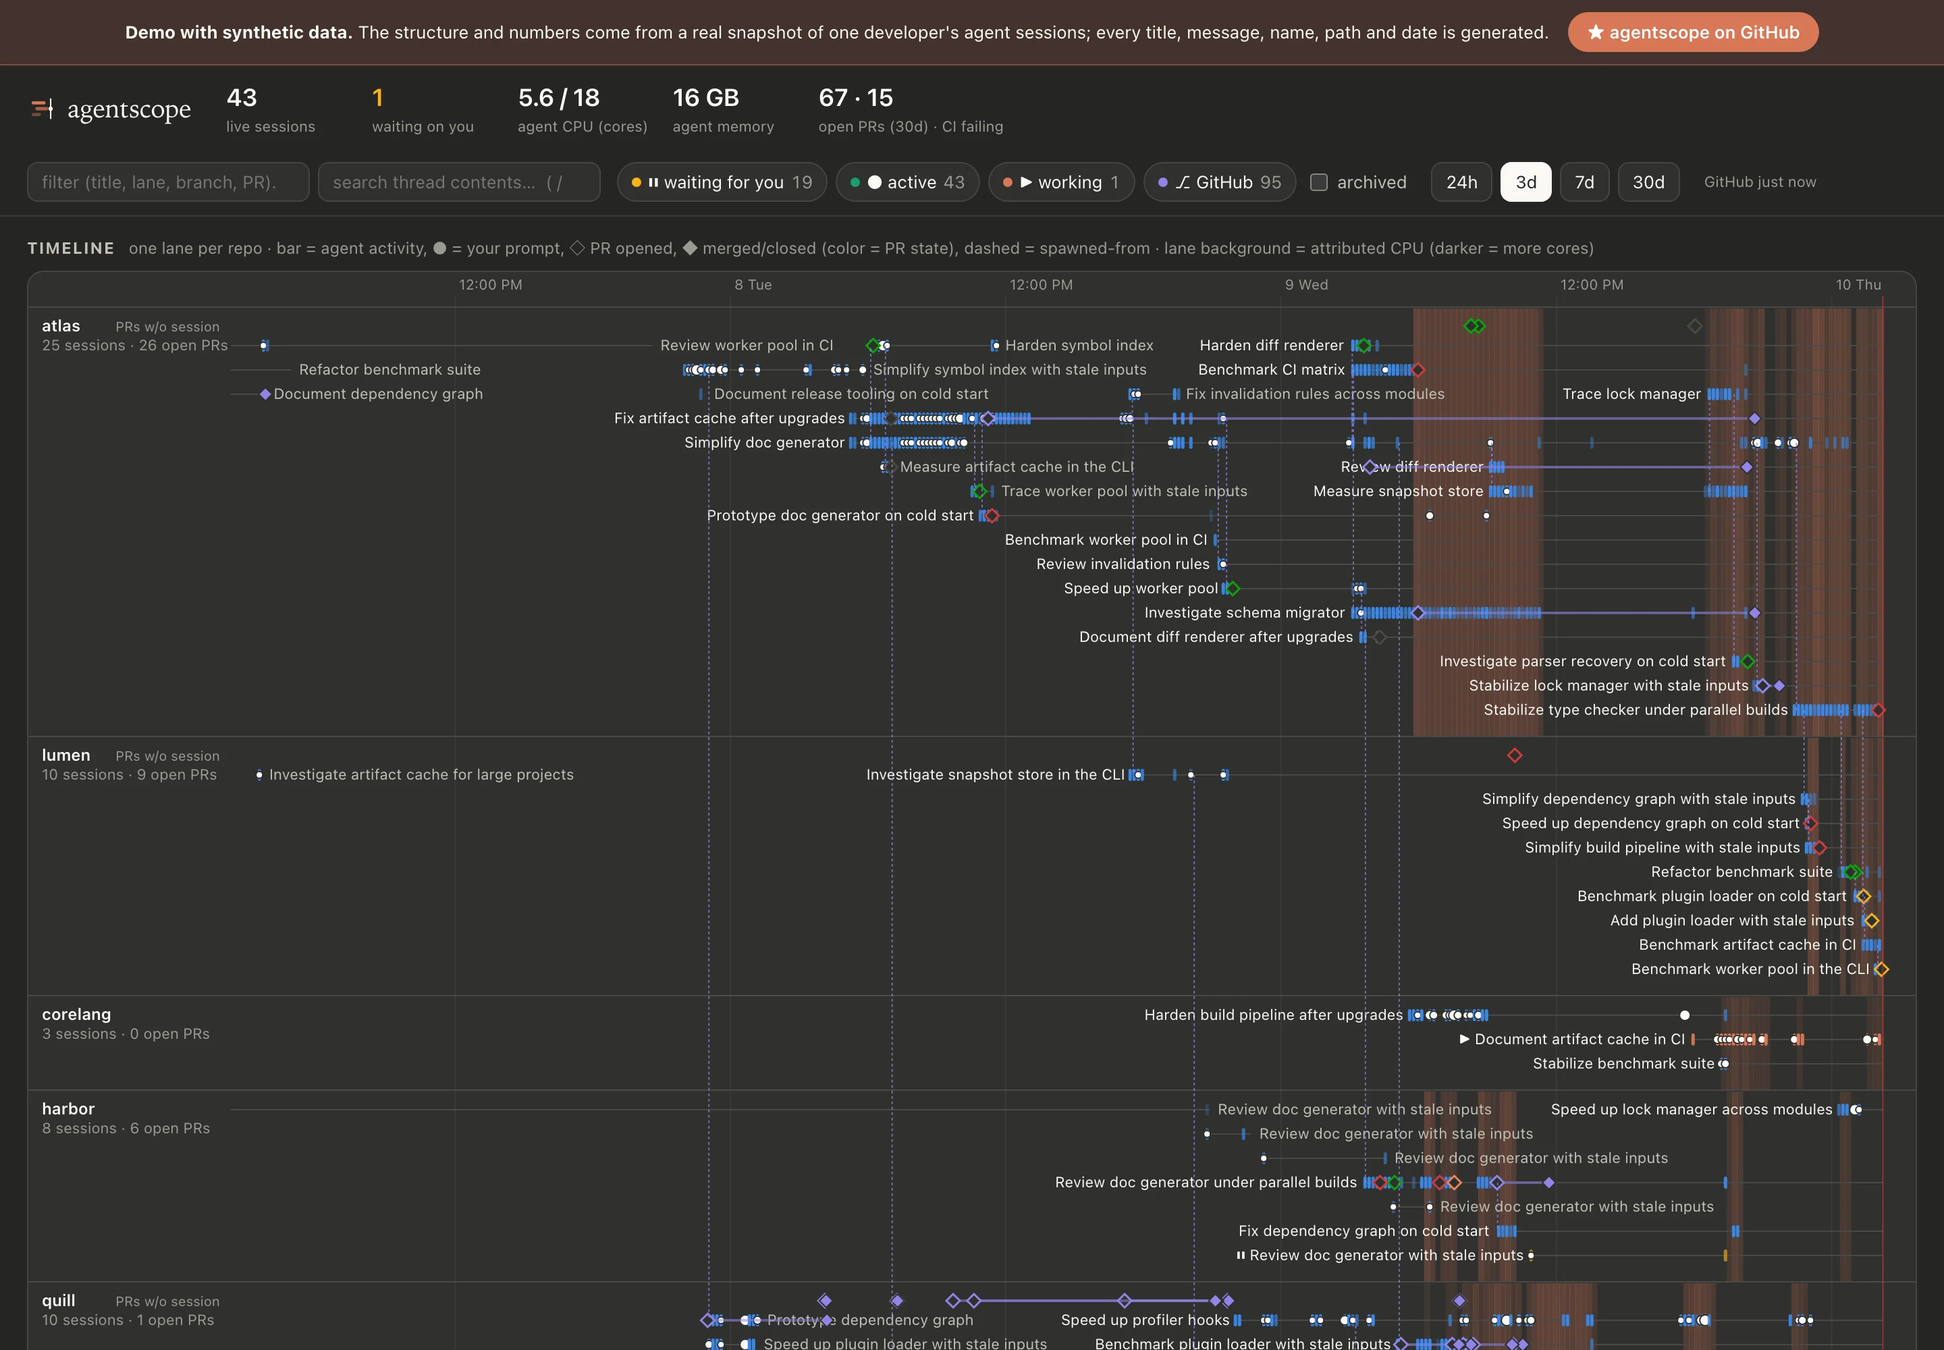
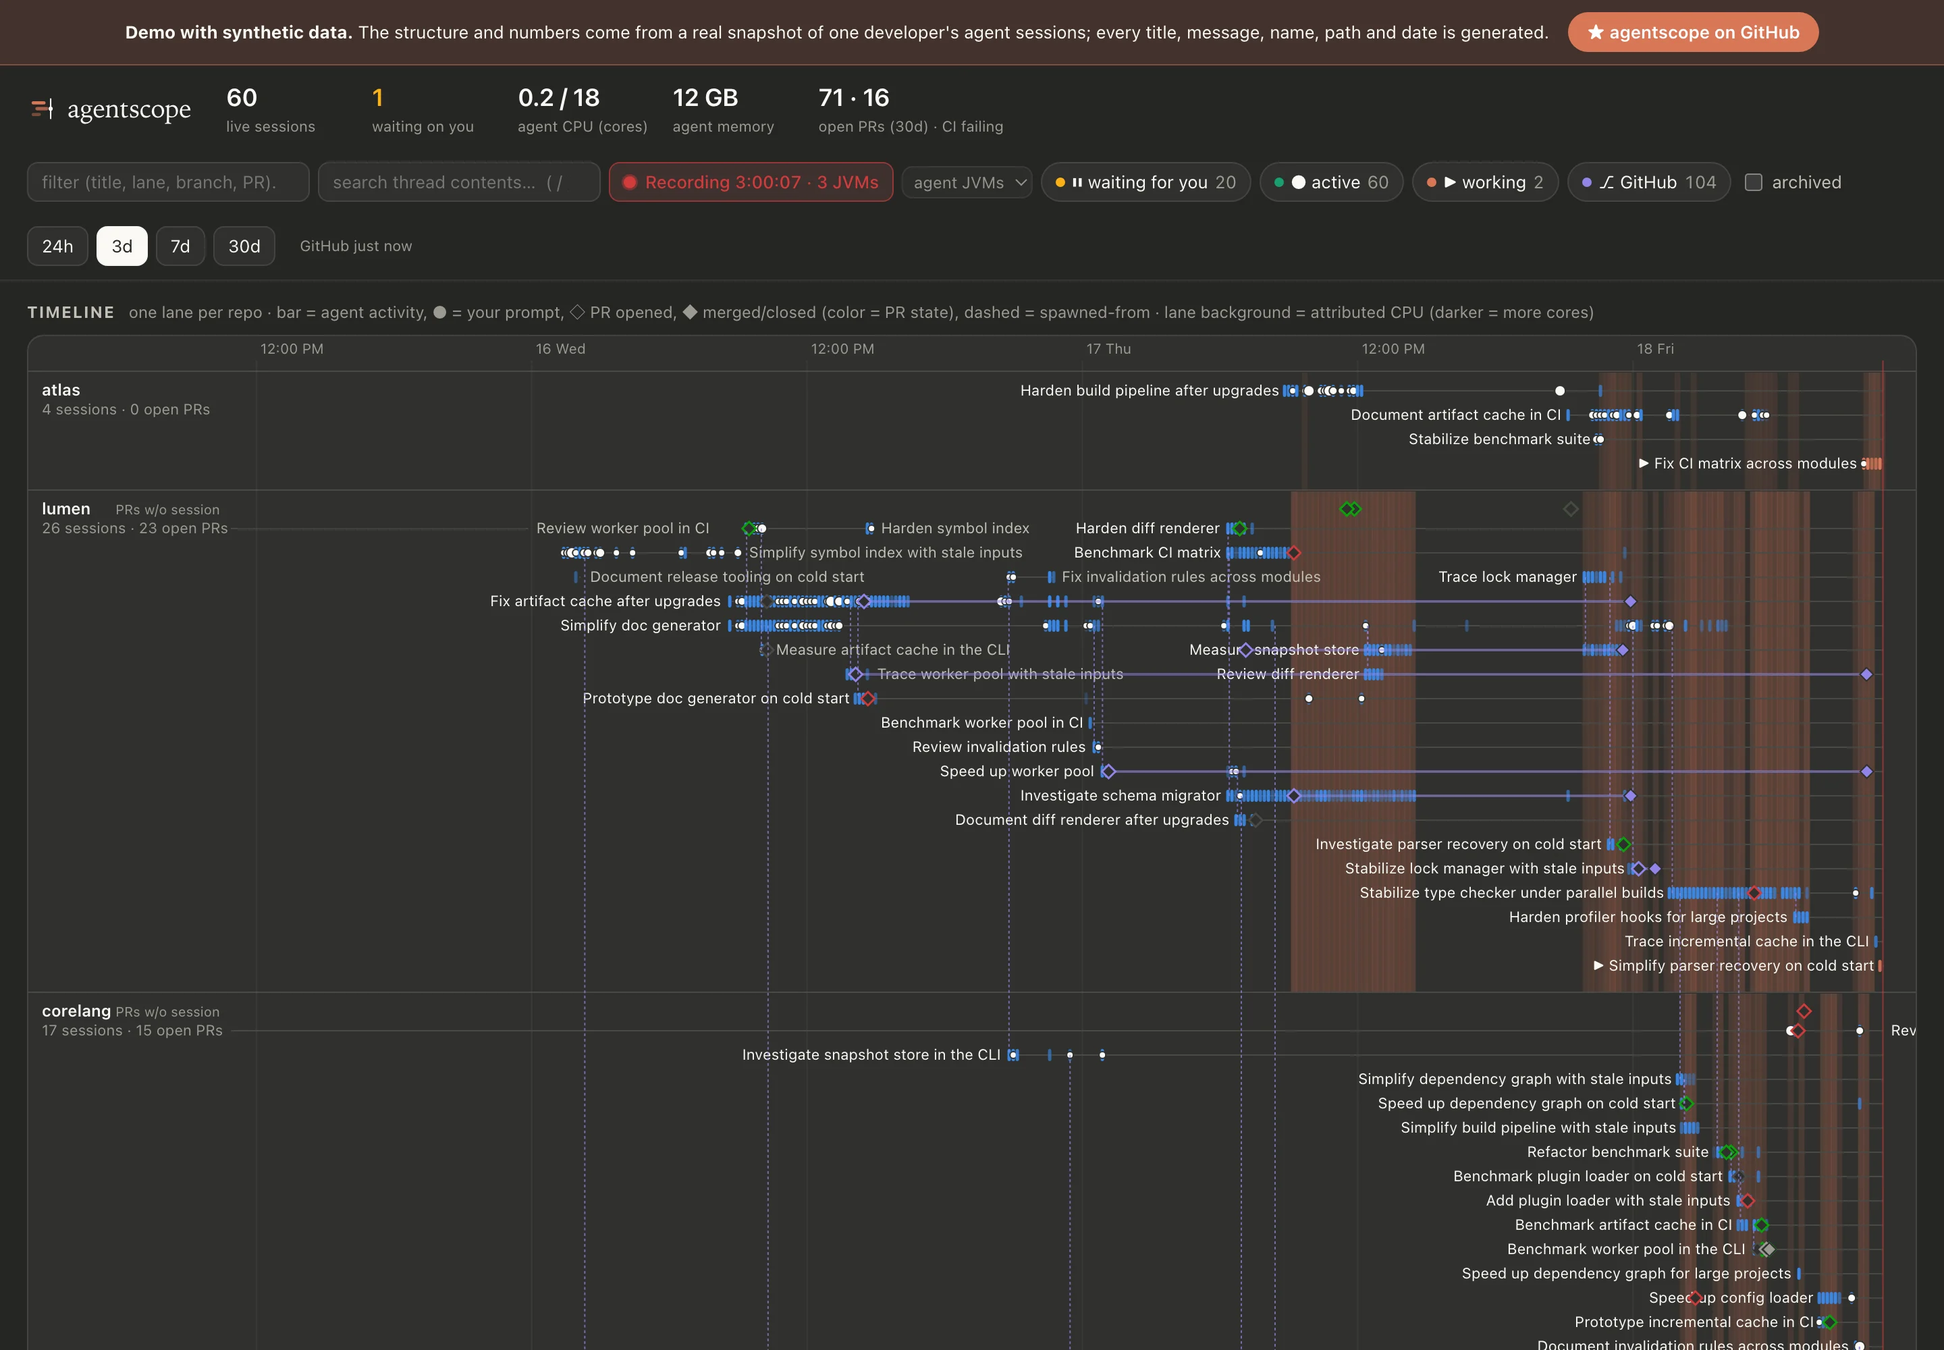
README: pitch the profiler, Across JVMs first; screenshots generated from the demo

diff --git a/README.md b/README.md
@@ -1,20 +1,21 @@
 <h1><img src="assets/icon.svg" width="34" height="34" align="top" alt=""> agentscope</h1>
 
-**One local page for keeping track of many concurrent Claude Code agent sessions: what each one is doing right now, what it has done this week, which PRs it produced, how much of your machine it is using, and what it left waiting on you.**
+**One local page for keeping track of many concurrent Claude Code agent sessions: what each one is doing right now, what it has done this week, which PRs it produced, how much of your machine it is using (and, for the JVM builds it starts, where that CPU went), and what it left waiting on you.**
 
 <p>
   <a href="https://retronym.github.io/agentscope/"><b>▶&nbsp;Try the live demo</b></a>
-  &nbsp;·&nbsp; a real snapshot of ~140 sessions with every title, message, name, path and date replaced by synthetic ones
+  &nbsp;·&nbsp; a real snapshot of ~140 sessions with every title, message, name, path and date replaced by synthetic ones; its JVM profiles are recordings of public builds
 </p>
 
 [![agentscope: live sessions, attributed CPU and memory, PR status](docs/screenshots/overview.webp)](https://retronym.github.io/agentscope/)
 
 ## Why
 
-Running a dozen or more agent sessions across several repositories, the Claude app's session list stops being enough. Three things get lost:
+Running a dozen or more agent sessions across several repositories, the Claude app's session list stops being enough. Four things get lost:
 
 - **Right now.** Which sessions are working, which are blocked on a permission prompt or a question, and which one is quietly pinning six cores with a forked build.
 - **Over time.** What happened in each repo this week, which session produced which PR, which session spawned which.
+- **Where the CPU went.** Agents start builds: sbt servers, Gradle daemons, forked tests. When the machine is pinned or a session is slow, you want to know what those JVMs were doing, not just that they were busy.
 - **Loose ends.** Questions an agent asked that you never answered, follow-ups it proposed, PRs that went quiet when their session did. These are exactly the things that fall out of your head.
 
 agentscope reads what Claude Code already records on your machine, joins it with your PRs on GitHub and the live process table, and puts it on one page that refreshes every few seconds.
@@ -27,32 +28,25 @@ Live sessions first: waiting on you, then working, then recently active. Each ca
 
 Cards stay put: they only reorder when a session's state or CPU tier changes materially, and moves are animated. Status chips (*waiting for you*, *active*, *working*, *GitHub*) filter every view.
 
-### JVMs
-
-<img src="docs/screenshots/jvms.webp" alt="JVMs: heap, GC, allocation and threads of every JVM, attributed to sessions">
-
-Most of the heavy lifting on a card is usually a JVM: an sbt server, Bloop, a Gradle daemon, a forked test run. The JVMs section is a `top` for all of them, read from the counters HotSpot already publishes for `jstat` (`hsperfdata`), so nothing attaches to them and they pay nothing. Each row shows the owning session, uptime, CPU, heap used against committed and max, the share of wall time in GC pauses, an estimated allocation rate, threads and loaded classes. Expand a row for the heap by generation, metaspace, safepoint and JIT time, the JVM's options, and the last three hours per minute.
-
-Session cards get a line for their JVMs, and **JVMs in trouble** in Loose ends lists any that are spending a fifth of their time in GC, stay near their max heap even after collections, or ran a full GC in the last five minutes.
-
-When you want more than counters, an expanded row can take a snapshot, which does attach (via a small Java helper, built once with `mise run build-profiler`):
-
-- **Threads:** two thread dumps a second apart, so every thread comes with what it's doing and how much CPU it used in that second. Threads are grouped by name (`pool-*-thread-*`), busiest first, with deadlocks called out and idle threads hidden until you ask.
-- **Heap**, **Class histogram** (asks first: it pauses the JVM to walk the heap) and **Native memory** (when the JVM runs with `-XX:NativeMemoryTracking`).
-
-<img src="docs/screenshots/jvm-profile.webp" alt="A JVM's full view: activity, sub-second heatmap, thread lanes and a flame graph of a javac workload">
-
-**Record** in the header turns on continuous profiling: every JVM in scope (agent JVMs, or all of yours) gets a low-overhead JFR recording, picked up as it starts, and the button pulses until you stop it. A JVM's full view (⤢) then shows a sub-second CPU heatmap, one lane per thread coloured by what it's doing (on CPU, in native code, parked, blocked on a lock), and a flame graph of CPU, native, allocation, lock or park time. Drag across the heatmap or lanes to pick a range, click a thread's name to see only that thread.
-
-Every flame graph (a JVM's, Across JVMs, a capture's) has the same controls. Click a frame to zoom in, and the breadcrumb or the ancestor bars to zoom back out; Ctrl/⌘+scroll or pinch zooms at the cursor, Shift+drag zooms to a range. Search takes a regex, shows what share matched, and steps through matches with N; Enter keeps it as a coloured highlight. Filters stack and can each be removed: keep or hide the stacks through a pattern, hide one stack (Ctrl/Alt+click), merge a function away (say, lambda frames or recursion), or focus on a function (every call to it, merged). Right-click a frame for all of these, press ? for the keys. Filters and highlights survive the data refreshing underneath. You can also record a single JVM from its full view. Stacks are recorded 512 frames deep by default (JFR's own default of 64 cuts off a compiler's recursion); the depth is a setting in the full view, and takes effect in JVMs where JFR hasn't started yet. Recordings stop when you press Stop or quit agentscope. How much they cost is measured, not guessed: on a javac workload, CPU per compile was the same with and without the recording, within noise (`mise run bench-overhead`). The first recording in a JVM costs a moment of JFR start-up.
-
-While recording, each JVM's row and its session's card say what it's doing (for example *scalac: typer 62% · zinc 20%*), from rules that name compiler phases, test frameworks, dependency resolution and build tools. **Activity**, at the top of the JVMs section, shows it machine-wide and per thread, the way Gradle's console shows its workers: for every recorded JVM, grouped by session, each busy thread with what it's doing now and the frame that shows it, then one lane per thread over the last 5 or 30 minutes, coloured by activity. Click a lane to open that thread's profile; drag across the lanes to pick the range for Across JVMs.
-
-<img src="docs/screenshots/jvm-activity.webp" alt="Activity: each recorded JVM's busy threads, what they're doing now, and lanes coloured by activity"> Every minute of every recording is also kept for a week, losslessly, so **Across JVMs** below the table shows one flame graph over all of them for the last 15 minutes to 7 days, rooted at session, then JVM, then activity, even for JVMs that have since exited.
+### JVMs: a profiler for every build your agents start
 
 <img src="docs/screenshots/jvm-across.webp" alt="Across JVMs: one flame graph over every recorded JVM, rooted at session, JVM and activity">
 
-With [async-profiler](https://github.com/async-profiler/async-profiler) installed (`brew install async-profiler`), a JVM's full view can also take a **capture**: a few seconds of CPU with allocation and locks, of wall clock across every thread, or of everything it offers (live objects, native memory, native locks). It asks first, because async-profiler's agent stays loaded in the JVM afterwards. Captures keep up to 4096 frames per stack by default (configurable). Each capture is kept for 30 days and can be shown as a flame graph, compared with another capture (red grew, blue shrank), opened in async-profiler's own HTML view, or downloaded as a `.jfr` for JMC.
+Most of the heavy lifting on a card is a JVM: an sbt server, Bloop, a Gradle daemon, a forked test run. A process list can tell you *which* one is pinning your cores, but not *why*: compiling, testing, resolving dependencies, or thrashing in GC. Nor can the agent waiting on that build. Press **Record** in the header and agentscope profiles every agent JVM (or every JVM of yours) continuously, picking each one up as it starts, so the answer is already there when you ask.
+
+**Across JVMs** is one flame graph over all of them, for any range from the last 15 minutes to the last 7 days, rooted at session, then kind of JVM, then activity, then frames. It answers questions a one-process profiler can't: which sessions' builds cost the most this week and doing what (scalac's typer, zinc, tests, dependency resolution); how much of yesterday went into one compiler phase across every sbt server; what a forked test JVM that exited hours ago was busy with. Every minute of every recording is kept losslessly for a week. It's continuous profiling in the style of Pyroscope or Parca, with nothing to deploy and every sample attributed to the session that started the build.
+
+**Activity** shows the same thing live, the way Gradle's console shows its workers: for every recorded JVM, grouped by session, each busy thread with what it's doing now and the frame that shows it, then one lane per thread (threads of a pool share one) over the last 5 or 30 minutes, coloured by activity. Activities come from rules that name compiler phases, test frameworks, dependency resolution and build tools, and each JVM's row and its session's card carry a line like *scalac: typer 62% · zinc 20%*. Drag across the lanes to pick the range for Across JVMs; click a lane to open that thread's profile.
+
+<img src="docs/screenshots/jvm-profile.webp" alt="A JVM's full view: sub-second heatmap, thread lanes and a flame graph of sbt compiling and testing">
+
+**A JVM's full view** (⤢) has a sub-second CPU heatmap, one lane per thread or thread pool coloured by what it's doing (on CPU, in native code, parked, blocked on a lock), and a flame graph of CPU, native, allocation, lock or park time. Drag across the heatmap or lanes to pick a range; click a thread's name to see only that thread.
+
+Every flame graph has the same controls. Click a frame to zoom in; Ctrl/⌘+scroll, pinch or Shift+drag zoom at the cursor, and detail appears as you zoom. Search takes a regex, shows what share matched, and Enter keeps it as a highlight. Filters stack and can each be removed: keep or hide the stacks through a pattern, hide one stack, merge a function away (lambda frames, recursion), or focus on a function (every call to it, merged). Right-click a frame for all of these, or press ? for the keys.
+
+**What it costs**: recordings are JFR with agentscope's own low-overhead settings, started with `jcmd`, so nothing is left loaded in the JVM. On a javac workload, CPU per compile was the same with and without the recording, within noise (`mise run bench-overhead`). Stacks are 512 frames deep by default, since JFR's default of 64 cuts off a compiler's recursion. Recordings stop when you press Stop or quit agentscope.
+
+Without recording, the JVMs table is a `top` for every JVM, read from the counters HotSpot already publishes for `jstat` (`hsperfdata`), so nothing attaches: CPU, heap against committed and max, GC share, allocation rate, threads, classes, and the last three hours per minute. **JVMs in trouble** in Loose ends lists any spending a fifth of their time in GC, staying near their max heap after collections, or running full GCs. An expanded row can take **snapshots**: two thread dumps a second apart (each thread with the CPU it used in between, deadlocks called out), heap, class histogram and native memory. With [async-profiler](https://github.com/async-profiler/async-profiler) installed, a JVM's full view can also take a **capture** (wall clock across every thread, allocation, locks, native memory), kept 30 days, diffable against another capture, and downloadable as a `.jfr` for JMC. Snapshots, recording and captures go through a small Java helper, built once with `mise run build-profiler`.
 
 The design, what was learned building it, and what's next are in [docs/jvm-profiler.md](docs/jvm-profiler.md).
 

diff --git a/PLAN.md b/PLAN.md
@@ -1,0 +1,37 @@
+# PLAN: the profiler in the live demo
+
+## Why
+
+The README and the demo undersell the JVM profiler, Across JVMs above all. The demo shows only the hsperfdata table: Record, Activity, a JVM's full view (heatmap, lanes, flame graph) and Across JVMs are hidden in demo mode, and the README carries hand-taken screenshots that fall behind the UI (the latest flame graph controls aren't in any of them). A demo that has the profiler working, with real stacks, sells it better than more screenshots, and keeps the screenshots honest because they're generated from it.
+
+## Key decisions
+
+- **Real stacks from a public workload, not invented ones and not the user's own.** Made-up stacks look fake once you zoom in; the user's recorded stacks would leak private class and package names that a denylist can't reliably catch. Recording JVMs that build public code (sbt compiling and testing a generated Scala project, javac) gives real depth, recursion and activity labels with nothing to anonymize.
+- **Recorded once, committed as a fixture.** `mise run demo-fixture` records the workload with agentscope's own helper and writes a compact, subsampled fixture. `mise run demo` stays quick and needs no JDK.
+- **The page computes profile answers itself in demo mode**, from the fixture, like the rest of the static demo (`staticApi`): a JVM's summary, flame graph, activity lanes, and Across JVMs. Flame graph filters, search and highlights already run in the browser, so the latest flame graph UI comes for free.
+- **Across JVMs history comes from the snapshot's own process history.** Every JVM-looking process in the anonymized week of history gets the fixture's minutes for a workload like its own, scaled by its real CPU that minute. Session → JVM → activity is then shaped like the real week, and the frames are public.
+- **The demo clock ticks.** The fixture loops, so lanes and heatmaps move like a live page.
+
+## Steps
+
+- [x] 1. Helper op to dump a recording's raw profile; `demo/record_fixture.py` runs the workload, records it, writes `demo/fixture/profiles.json.gz`; `mise run demo-fixture`.
+- [x] 2. `static/demo.js`: fixture-backed summary, flame, thread activity and Across JVMs, with the same shapes and pruning as the helper and `profiles.flame`.
+- [x] 3. Export: fixture JVMs assigned to the demo's live agent JVMs, recording state in `state.record`, Across JVMs history from process history; the page shows Record (inert), Activity, the full view's profile and Across JVMs in demo mode.
+- [x] 4. Screenshots of the JVM views generated by `demo/screenshots.py`.
+- [x] 5. README: pitch the profiler, Across JVMs first; trim what the demo now shows.
+
+Along the way, rough edges found by driving the profiler on these workloads, fixed:
+
+- sbt runs its tasks on short-lived pool threads (1,700 in five minutes), so lanes were dozens of one-blip rows. Threads of a group (`pool-*-thread-*`, `worker-*`) now share a lane, in a JVM's full view and in Activity; clicking one filters the flame graph to the group (the helper's `flame` takes `group`). Activity's "busy now" lines group the same way.
+- Across JVMs split its JVM level by pid, so a session that restarted sbt thirty times in a week showed thirty slivers. The level is now the kind of JVM (`sbt server`, `javac`).
+- `#only=` takes a part of a section (`#only=jvmflame`), and `#across=<seconds>` sets Across JVMs' range, for screenshots and links.
+
+Noticed, not fixed:
+
+- JFR on macOS delivers roughly a quarter of its nominal execution samples, with agentscope's settings and with JFR's own `profile` settings alike.
+- The stored stack pool (`node`) is never pruned and grows with deep, varied stacks: about 6M nodes, 110 MB, for 92 recorded minutes here, against 0.6 MB of sample blobs.
+
+## Future work
+
+- Captures (async-profiler) in the demo.
+- Pruning the stack pool along with the sample blobs.

diff --git a/docs/jvm-profiler.md b/docs/jvm-profiler.md
@@ -166,6 +166,8 @@ Each phase is usable on its own.
 
 Before phase 3: a spike that a JDK 21 consumer can tail repositories written by the oldest JVMs we expect (JDK 8u, 11, 17), and that `EventStream.openRepository` copes with chunk rotation and the target exiting mid-stream.
 
+- **DONE: the profiler in the static demo, and polish found on the way.** The demo replays recordings of public builds (`demo/record_fixture.py`: sbt compiling and testing a generated Scala project, javac, a small service with a contended lock), answered in the page by `static/demo.js`. Driving it showed two rough edges, fixed: sbt runs tasks on hundreds of short-lived pool threads, so lanes now merge a thread group (`pool-*-thread-*`) into one, and a click filters the flame graph to the group; and Across JVMs' second level is now the kind of JVM rather than each pid, since a session restarts its sbt server many times a week.
+
 ## Future work
 
 - **Let agents ask.** A text endpoint (`/api/jvm/<pid>/summary`: activity breakdown, top frames, GC health for the last N minutes) that a session can `curl` to find out why its own build is slow, instead of guessing.
@@ -183,6 +185,7 @@ Small files, one concern each:
 - `static/captures.js`: the Captures section of a JVM's full view. `static/activity.js`: the machine-wide Activity view.
 - `recording.py`: the Record switch, scope and per-JVM recordings; activities and per-minute storage. `profiles.py`: the stored profiles (pools, blobs, the machine-wide query).
 - `static/jvm.js`: the JVMs section, full view and snapshots. `static/profile.js`: the Record button, heatmap, thread lanes and flame graph.
+- `demo/record_fixture.py`: records sbt, javac and a small service building public code, for the static demo; `static/demo.js` answers the profile queries from that recording in the page, the way the helper and `profiles.py` would.
 - `profiler/`: the Maven project (`pom.xml`, `mvnw`, `src/main/java/...`, `src/main/resources/agentscope.jfc`), building `profiler/target/agentscope-profiler.jar`.
 
 ## Resolved questions
